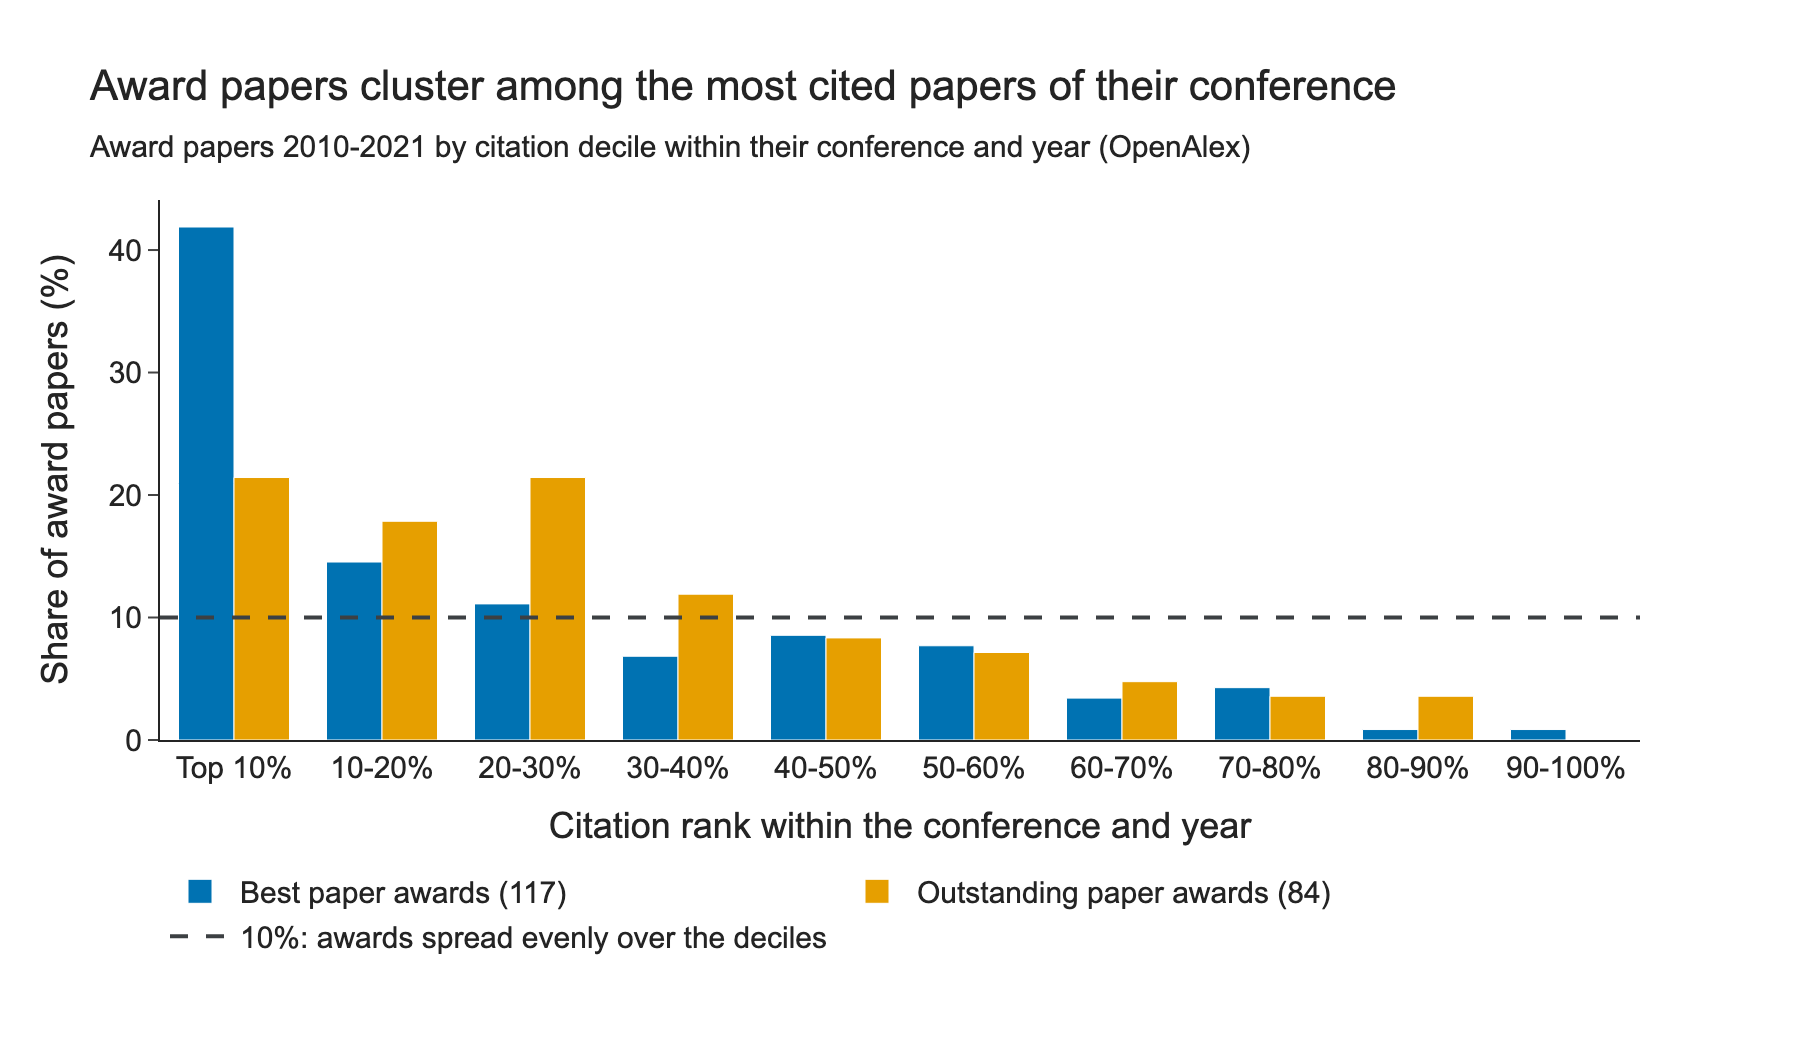
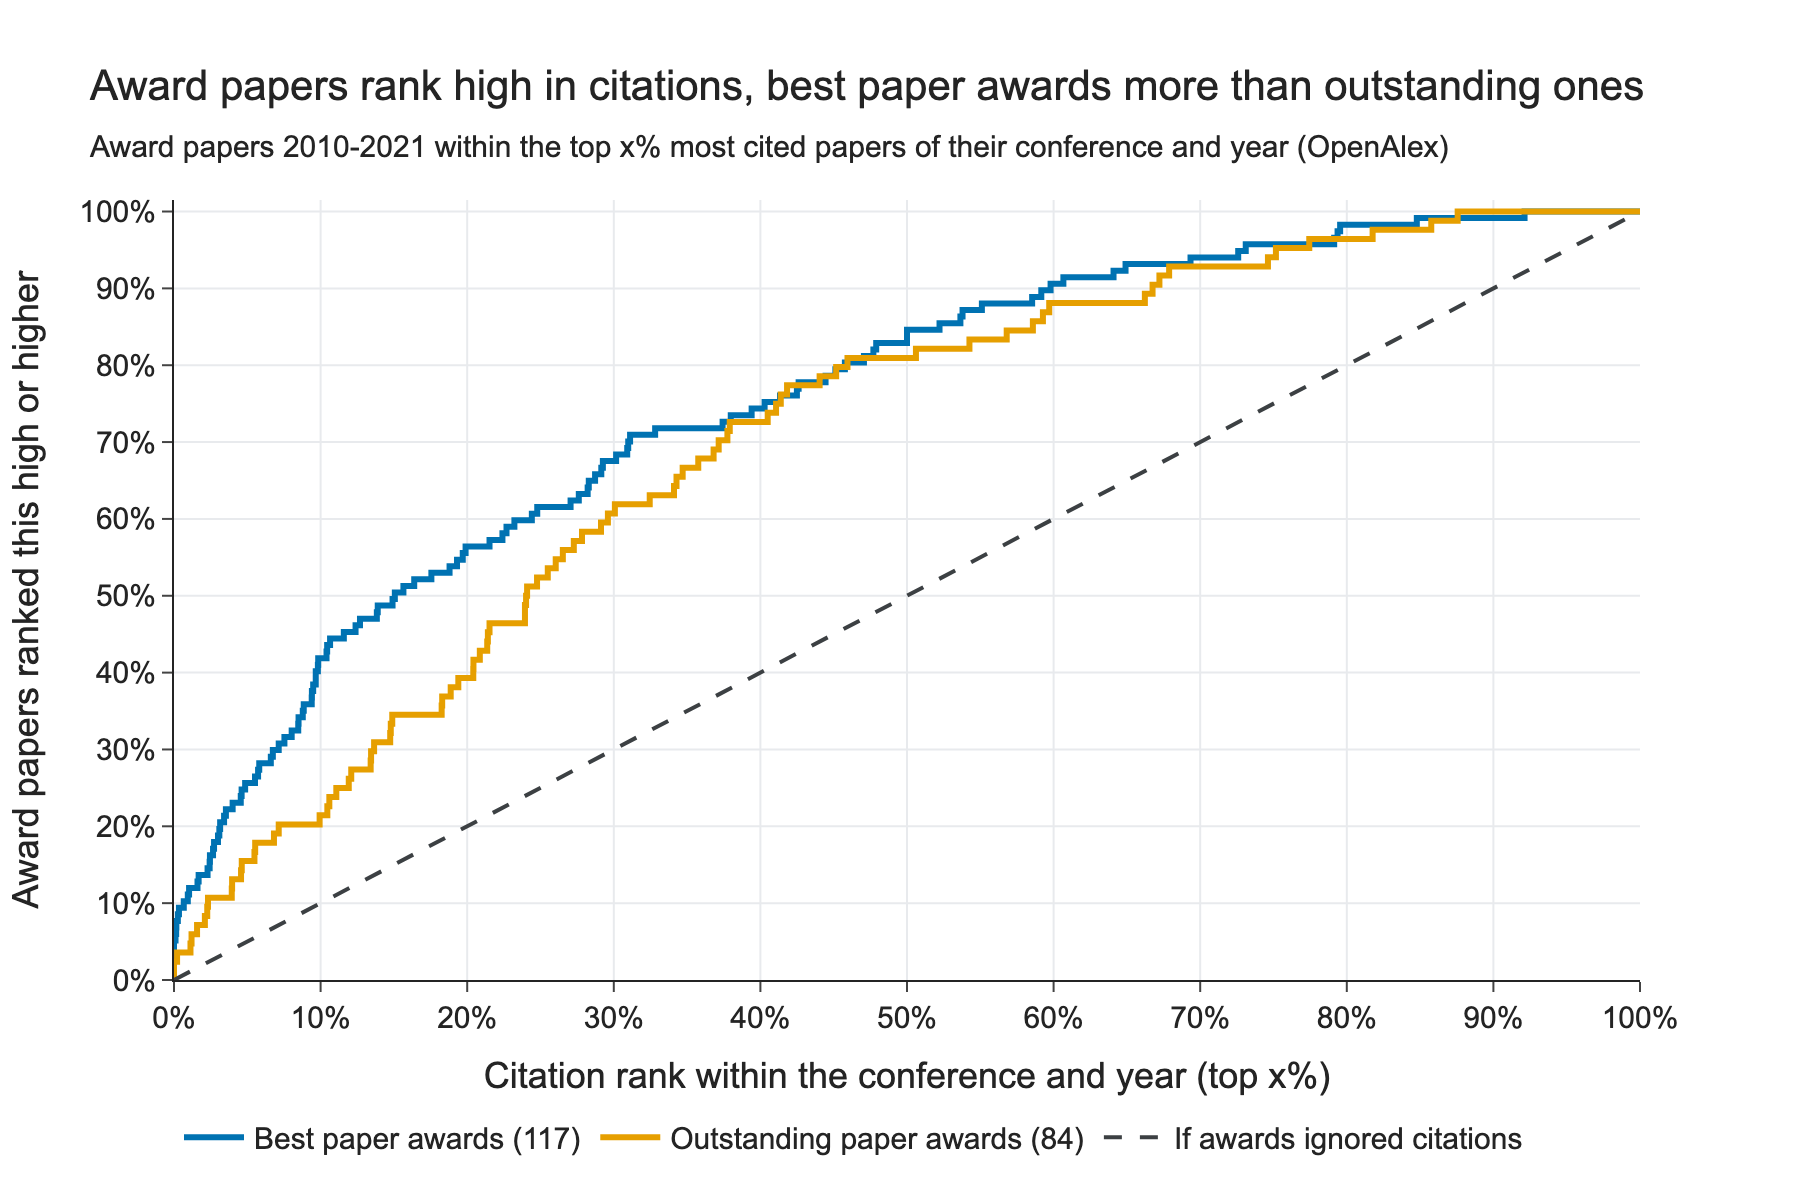
Show the citation ranks of award papers as continuous curves and date the update 2 November
A cumulative curve per award type replaces the decile bars, so readers can read the share at any rank, not only per tenth.

diff --git a/src/swiss_ai/figures.py b/src/swiss_ai/figures.py
@@ -429,67 +429,67 @@ def social_ai_share_figure() -> go.Figure:
     )
 
 
-# Citation deciles within a venue-year, from the most cited tenth to the least cited.
-DECILE_LABELS = ["Top 10%", *[f"{10 * d}-{10 * d + 10}%" for d in range(1, 10)]]
-# Award types in the citation-decile figure, with Okabe-Ito colours (no Swiss red: these are
-# not countries).
+# Award types in the citation figure, with Okabe-Ito colours (no Swiss red: these are not
+# countries).
 AWARD_TYPES = [
     ("best", "Best paper awards", "#0072B2"),
     ("outstanding", "Outstanding paper awards", "#E69F00"),
 ]
 
 
-def citation_decile_figure() -> go.Figure:
-    """Share of award papers in each citation decile of their venue-year, by award type."""
+def citation_curve_figure() -> go.Figure:
+    """Share of award papers within the top x% most cited of their venue-year, by award type."""
     df = pd.read_csv(AWARD_CITATIONS)
-    # Decile 0 holds papers fewer than 10% of their venue-year out-cite.
-    df["decile"] = (df.cited_more_share * 10).astype(int).clip(0, 9)
     fig = go.Figure()
     for award_type, label, color in AWARD_TYPES:
-        group = df[df.award_type == award_type]
-        shares = group.decile.value_counts(normalize=True).reindex(
-            range(10), fill_value=0
-        )
+        # Rank as the share of the venue-year cited more, in percent: 0 is the most cited.
+        ranks = (
+            df.loc[df.award_type == award_type, "cited_more_share"] * 100
+        ).sort_values()
+        n = len(ranks)
         fig.add_trace(
-            go.Bar(
-                x=list(range(10)),
-                y=(shares * 100).tolist(),
-                name=f"{label} ({len(group)})",
-                marker_color=color,
+            go.Scatter(
+                x=[0, *ranks, 100],
+                y=[0, *(100 * (i + 1) / n for i in range(n)), 100],
+                mode="lines",
+                line={"shape": "hv", "color": color, "width": 3},
+                name=f"{label} ({n})",
             )
         )
     fig.add_trace(
         go.Scatter(
-            # Across the whole axis, from the left edge of the first group to the right edge
-            # of the last.
-            x=[-0.5, 9.5],
-            y=[10, 10],
+            x=[0, 100],
+            y=[0, 100],
             mode="lines",
             line={"dash": "dash", "color": DARK, "width": 2},
-            name="10%: awards spread evenly over the deciles",
+            name="If awards ignored citations",
         )
     )
+    grid = {"showgrid": True, "gridcolor": "#E8EAED", "range": [0, 100], "dtick": 10}
     return fig.update_layout(
-        **LAYOUT,
+        **LAYOUT | {"height": 600},
         title={
-            "text": "Award papers cluster among the most cited papers of their conference",
+            "text": "Award papers rank high in citations, best paper awards more than "
+            "outstanding ones",
             "subtitle": {
-                "text": f"Award papers {FIRST_YEAR}-{CITATION_LAST_YEAR} by citation "
-                "decile within their conference and year (OpenAlex)"
+                "text": f"Award papers {FIRST_YEAR}-{CITATION_LAST_YEAR} within the top x% most "
+                "cited papers of their conference and year (OpenAlex)"
             },
         },
-        barmode="group",
-        bargap=0.25,
-        xaxis={
-            "title": "Citation rank within the conference and year",
-            "tickvals": list(range(10)),
-            "ticktext": DECILE_LABELS,
-            "range": [-0.5, 9.5],
-            "ticks": "",
+        xaxis=grid
+        | {
+            "title": "Citation rank within the conference and year (top x%)",
+            "ticksuffix": "%",
         },
-        yaxis={"title": "Share of award papers (%)", "rangemode": "tozero"},
-        legend={"orientation": "h", "x": 0, "y": -0.22, "yanchor": "top"},
-        margin={"t": 100, "b": 150},
+        # A little headroom so the curves stay visible where they reach 100%.
+        yaxis=grid
+        | {
+            "title": "Award papers ranked this high or higher",
+            "ticksuffix": "%",
+            "range": [0, 101.5],
+        },
+        legend={"orientation": "h", "x": 0, "y": -0.16, "yanchor": "top"},
+        margin={"t": 100, "b": 110},
     )
 
 
@@ -546,7 +546,7 @@ FIGURES_BY_NAME = {
     "participation_per_capita": participation_figure,
     "award_ratios": award_ratio_figure,
     "transfer": transfer_figure,
-    "award_citations": citation_decile_figure,
+    "award_citations": citation_curve_figure,
     "vc_terms": vc_terms_figure,
     "swiss_students": funnel_figure,
     "social_research_vs_money": social_figure,

diff --git a/tests/test_figures.py b/tests/test_figures.py
@@ -76,8 +76,8 @@ def inputs(tmp_path: Path, monkeypatch: pytest.MonkeyPatch) -> Path:
     monkeypatch.setattr(figures, "SCIENCE_PRIOR", tmp_path / "prior.csv")
     monkeypatch.setattr(figures, "FUNNEL", tmp_path / "funnel.csv")
     monkeypatch.setattr(figures, "VC_TERMS", tmp_path / "vc_terms.csv")
-    # Award papers ranked 1st, 2nd and 4th of 10 in their venue-year, plus one in the
-    # bottom decile, and one more best award with only its rank so far.
+    # Three best paper awards near the top of their venue-year and two outstanding
+    # paper awards, one of them near the bottom.
     pd.DataFrame(
         {
             "award_type": ["best", "best", "outstanding", "outstanding", "best"],
@@ -158,18 +158,15 @@ def test_social_ai_share_sorts_bars_and_highlights_switzerland(inputs: Path) -> 
     assert bar.marker.color[0] == figures.GREY
 
 
-def test_citation_deciles_share_award_papers_by_decile(inputs: Path) -> None:
-    fig = figures.citation_decile_figure()
+def test_citation_curve_accumulates_award_papers_by_rank(inputs: Path) -> None:
+    fig = figures.citation_curve_figure()
     best, outstanding, chance = fig.data
-    assert list(best.x) == list(range(10))
-    assert list(fig.layout.xaxis.ticktext) == figures.DECILE_LABELS
-    assert len(figures.DECILE_LABELS) == 10
-    # Best awards: two of three in the top decile, one in the second.
-    assert best.y[0] == pytest.approx(200 / 3)
-    assert best.y[1] == pytest.approx(100 / 3)
-    assert sum(best.y) == pytest.approx(100)
     assert best.name == "Best paper awards (3)"
-    # Outstanding awards: one in the fourth decile, one in the last.
-    assert outstanding.y[3] == 50
-    assert outstanding.y[9] == 50
-    assert list(chance.y) == [10, 10]
+    # One step per award paper at its rank, from 0% (most cited) to 100% (least cited).
+    assert list(best.x) == pytest.approx([0, 0, 5, 10, 100])
+    assert list(best.y) == pytest.approx([0, 100 / 3, 200 / 3, 100, 100])
+    assert best.line.shape == "hv"
+    assert list(outstanding.x) == pytest.approx([0, 30, 95, 100])
+    assert list(outstanding.y) == pytest.approx([0, 50, 100, 100])
+    assert list(chance.x) == [0, 100]
+    assert list(chance.y) == [0, 100]

diff --git a/blog/swiss-ai-research.md b/blog/swiss-ai-research.md
@@ -8,7 +8,7 @@ authors:
 
 **TL;DR:** From 2023 to 2025, Swiss institutions wrote 138 main-track papers per million residents at the top 11 AI conferences. Among places with more than a million residents, only Singapore and Hong Kong wrote more. Less of it turns into Swiss companies and Swiss researchers: Israel attracts 3.6 times as much private AI investment per resident, European startups (Swiss ones included) raise seed rounds at less than half the US valuation, and 34 of 40 documented acquisitions of Swiss AI startups went to foreign buyers. Since 2010, Swiss master's students in the exact sciences have more than doubled, while Swiss doctoral students fell by 15%.
 
-*Updated on 1 November 2026 after reader feedback: the post now compares AI with science overall, splits awards by team composition, adds citations and exit rates, and shows investment per resident in Figure 4. It also adds EMNLP 2026, where Sina Ahmadi and Rico Sennrich of the University of Zurich won one of 24 best and outstanding paper awards.*
+*Updated on 2 November 2026 after reader feedback: the post now compares AI with science overall, splits awards by team composition, adds citations (Figure 3) and exit rates, and shows investment per resident in Figure 4. It also adds EMNLP 2026, where Sina Ahmadi and Rico Sennrich of the University of Zurich won one of 24 best and outstanding paper awards.*
 
 When our FinePhrase paper won an outstanding paper award at COLM 2026, I wondered how many of these awards go to researchers in Switzerland. With federal research cuts coming in 2027, the question grew: how much of Switzerland's AI research turns into Swiss companies and Swiss researchers?
 
@@ -41,8 +41,8 @@ Most of the Swiss excess comes from papers with co-authors abroad. Since 2010, t
 Awards and citations agree only in part. When I rank 53,572 papers from 2010 to 2021 by OpenAlex citations within their conference and year (Figure 3), the median award paper sits at the 79th percentile. A third of the 201 award papers are in the top 10%, three times the rate by chance, but one in six is below the median. Best paper awards pick highly cited papers more often than outstanding paper awards (42% against 21% in the top 10%), close to the 51% a [2015 study](https://journals.plos.org/plosone/article?id=10.1371/journal.pone.0118446) found for computer science best papers, and computer vision juries more often than language or machine learning juries (58% against about 30%). Citations in the first five years give the same picture. Since an award can itself attract citations, these shares are if anything too high.
 
 <figure>
-  <img src="figures/award_citations.png" alt="Grouped bar chart of the share of best and outstanding paper awards in each citation decile of their conference and year, with 42% of best paper awards and 21% of outstanding paper awards in the top decile, against an even 10% per decile">
-  <figcaption>Figure 3: Share of best paper awards (117) and outstanding paper awards (84) from 2010 to 2021 in each citation decile of their conference and year, by OpenAlex citations so far. If awards ignored citations, each decile would hold 10% of them (dashed line). Ten award papers without OpenAlex citation counts are left out, six of them from NeurIPS 2021.</figcaption>
+  <img src="figures/award_citations.png" alt="Two rising step curves of the share of best and outstanding paper awards that rank within the top x% most cited papers of their conference and year, both above the diagonal; at the top 10%, the best paper curve reaches 42% and the outstanding paper curve 21%">
+  <figcaption>Figure 3: Share of best paper awards (117) and outstanding paper awards (84) from 2010 to 2021 that rank within the top x% most cited papers of their conference and year, by OpenAlex citations so far. At the top 10%, the curves reach 42% of best paper awards and 21% of outstanding paper awards. If awards ignored citations, the curves would follow the dashed diagonal. Ten award papers without OpenAlex citation counts are left out, six of them from NeurIPS 2021.</figcaption>
 </figure>
 
 Swiss papers are not cited more than their share predicts: they reach the top 10% as often as expected (194 against 202, ratio 0.96, interval 0.83 to 1.11), while Chinese papers, which win half the awards their share predicts, reach it more often (1.23). Most Swiss awards came after 2022, too recently for citations to tell.
